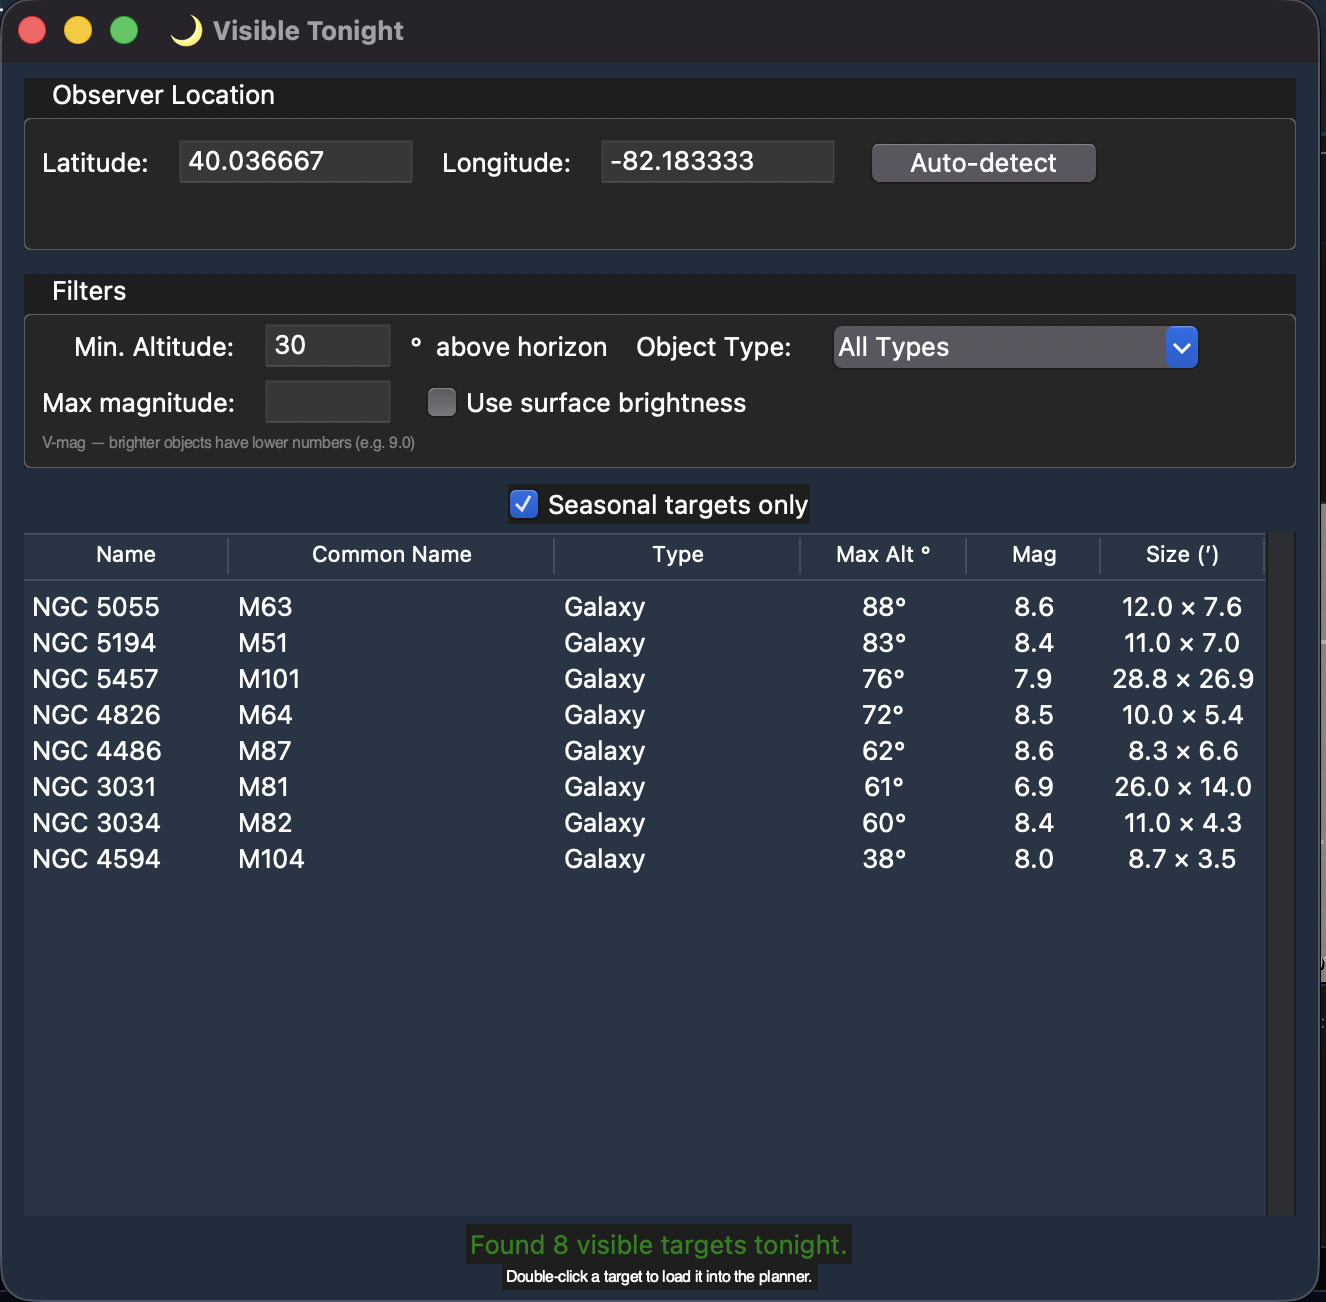
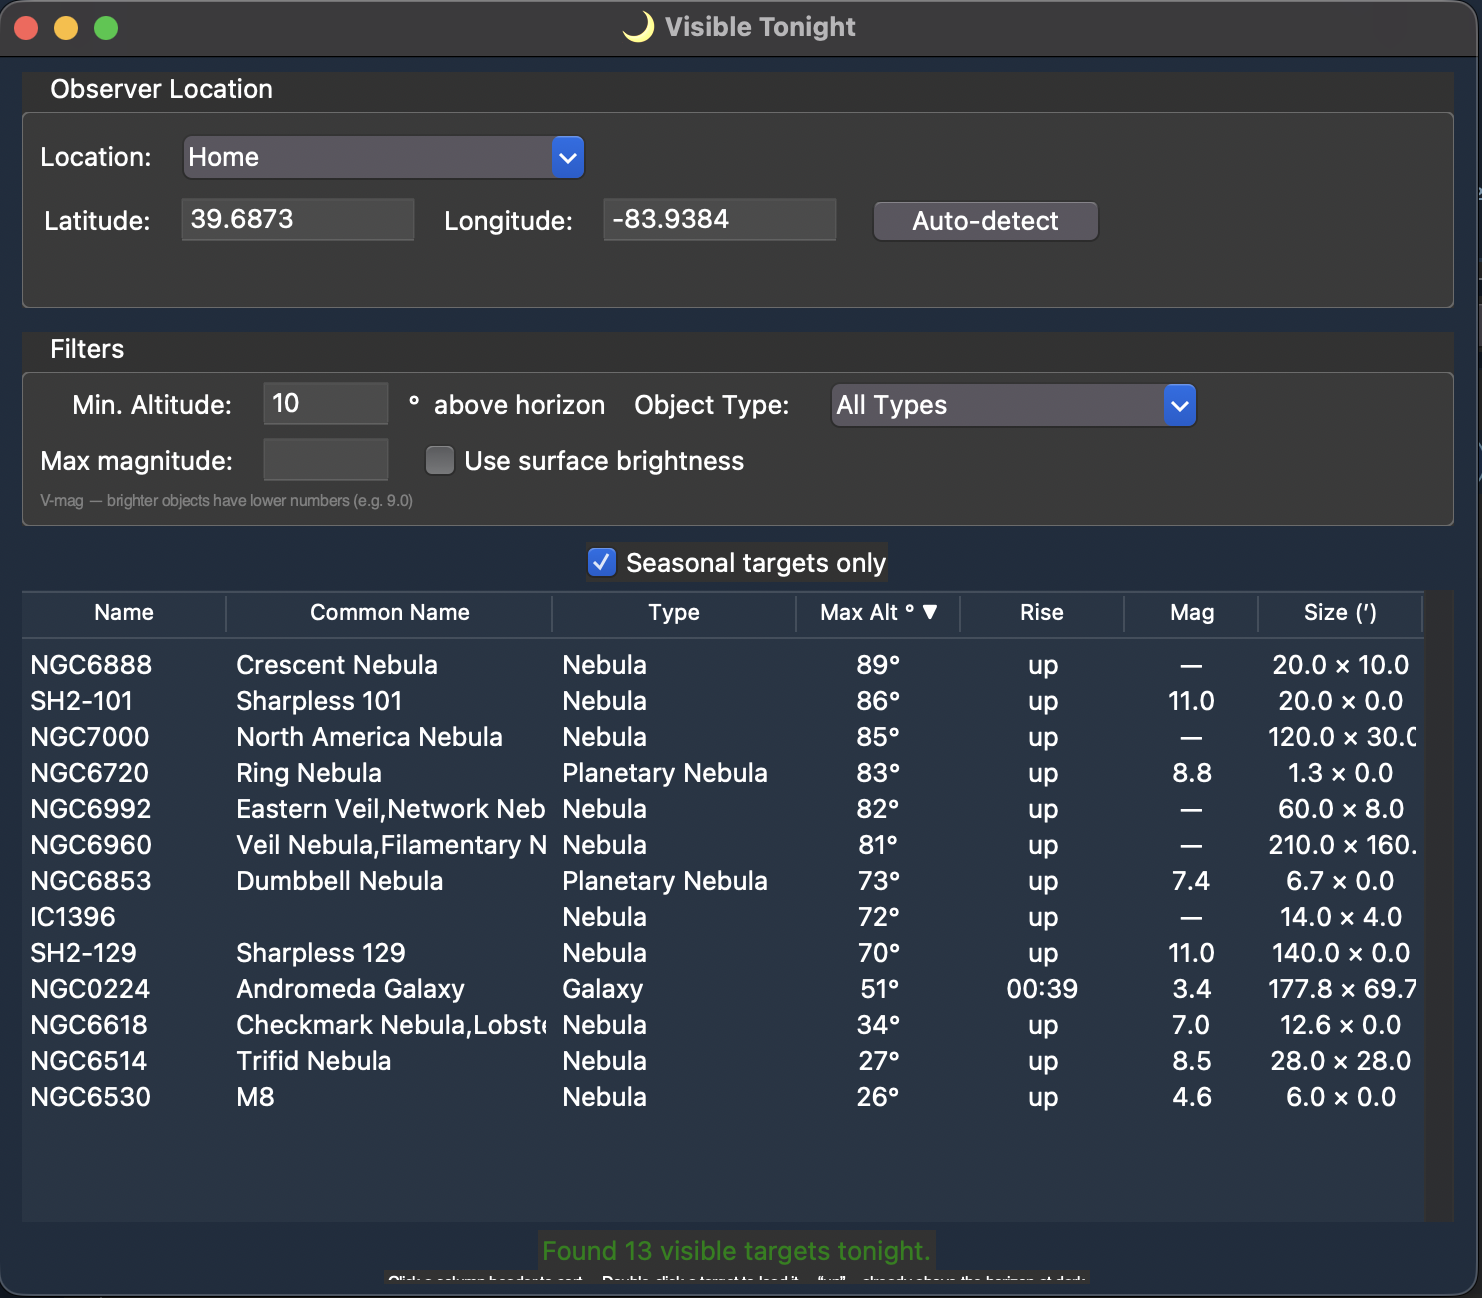
Update screenshots and readme

diff --git a/README.md b/README.md
@@ -27,10 +27,11 @@ Lightbucket is a free, local desktop app that closes the gap between **"what sho
 In one window it:
 
 - 🔭 **Searches NGC, IC, Messier, Caldwell, and Sharpless** from one box, with auto-complete on common names ("Orion Nebula" → M42 → NGC 1976) and a per-catalog filter to narrow suggestions to just the lists you care about
-- 🎯 **Frames the target on your sensor** with a draggable, rotatable FOV overlay on a live DSS image
+- 🎯 **Frames the target on your sensor** with a draggable, rotatable FOV overlay on a live DSS image — and your final framing carries through to the export, so if you nudge the frame off-centre or rotate it, NINA centres and rotates to match
 - 🗺 **Opens an interactive sky map** centred on your target — a wide-field view with constellations, the Milky Way, a coordinate grid, and your sensor frame drawn in, as the zoomed-out companion to the close-up DSS framing
 - ⏱ **Recommends a sub-exposure length** from your camera's read noise and your Bortle-class sky background — with read-noise vs sky-flux regime detection so you know *why*
 - 🌙 **Calculates tonight's imaging window** between astronomical twilight, moonrise/moonset, and per-target altitude
+- 📍 **Saves named location profiles** so dark-site travelers can switch between home and remote sites in a click — every twilight, moon, and altitude calculation follows the active site
 - 📊 **Builds a multi-target Gantt schedule** for the night, with per-rig support for dual-scope setups
 - 🚀 **Exports a `.ninaTargetSet` file** you double-click into NINA's Sequencer — multi-rig plans split automatically into one file per telescope
 - 🧩 **Imports your NINA profile** — pulls in filter-wheel names (LRGB + narrowband, with a bandwidth prompt) and your configured telescope, showing a preview of exactly what will be added or updated before anything is saved
@@ -84,7 +85,7 @@ If it's useful to you too, [grab the latest release](https://github.com/Lightbuc
 
 **Requirements:** macOS 11 (Big Sur) or later. Apple Silicon only (Apple Intel support coming in a future release).
 
-1. Download **`LightbucketAstroPlanner-1.1.0.dmg`** from the release page.
+1. Download **`LightbucketAstroPlanner-1.1.1.dmg`** from the release page.
 2. Open the DMG and drag **Lightbucket Astro Planner** into your
    **Applications** folder.
 3. The first time you launch it:
@@ -103,7 +104,7 @@ If it's useful to you too, [grab the latest release](https://github.com/Lightbuc
 
 **Requirements:** Windows 10 (1909 or later) or Windows 11, 64-bit.
 
-1. Download **`LightbucketAstroPlanner-1.1.0-setup.exe`** from the
+1. Download **`LightbucketAstroPlanner-1.1.1-setup.exe`** from the
    release page.
 2. Run the installer. If **Windows Defender SmartScreen** appears:
    - Click **More info**.
@@ -153,6 +154,14 @@ manually and click **Save**, or click **📍 Auto-detect** to try again.
 
 Accurate coordinates matter for twilight times, moon altitude, and the
 per-target imaging window, so it's worth getting right.
+
+If you observe from more than one place, save each as a **named location
+profile**: get the coordinates right, then use the **Location** dropdown's
+**☆ Save** to name the site (your first one is created automatically as
+*Home*). Switch sites anytime from that dropdown — or from the Visible
+Tonight dialog — and use **⚙ Manage** to rename, update, or delete them.
+Auto-detect fills the fields and leaves saving to you, so detecting a new
+spot never overwrites a saved site.
 
 ### 4. (Optional) Import your NINA profile — *Settings* tab
 
@@ -213,7 +222,9 @@ auto-completes against the NGC / IC catalog and the bundled common-name map
 The right side of the tab shows:
 
 - A **DSS thumbnail** of the target with a draggable, rotatable sensor frame
-  that previews exactly how the object will land on your sensor.
+  that previews exactly how the object will land on your sensor. Pan the frame
+  off the catalog centre or rotate it, and that exact centre and position
+  angle are what get written to the NINA export.
 - A **text analysis** panel with recommended sub-exposure, moon conditions,
   the night's imaging window for that target, and integration math.
 - An **altitude track** showing the target's altitude across the night with
@@ -244,6 +255,17 @@ it isn't available, the map falls back to opening in your default browser, so
 the button never dead-ends. macOS uses the built-in system web view — nothing
 extra to install.
 
+The **🌙 Visible Tonight** button scans the whole catalog for objects that
+clear your altitude floor during tonight's dark window, filtered by object
+type and magnitude (or surface brightness). Each result shows its peak
+altitude and a **Rise** column — the local time the object first climbs above
+your minimum altitude while the sky is dark, or *up* if it's already above the
+line at dusk. **Single-click any column header to sort** (click again to
+reverse); names sort naturally (M9 before M13) and rise times read dusk-to-dawn
+in order. A **Location** dropdown at the top switches saved sites and re-runs
+the scan, so you can compare what's up from home versus a darker site.
+Double-click a row to load that target into the Planner.
+
 ### ⭐ Targets
 
 A multi-target queue. Use this to build up a shortlist of candidates — for
@@ -260,7 +282,11 @@ schedule, and the exports:
   a notes app or print.
 - **Export to NINA** — writes a `.ninaTargetSet` file you can open directly
   in NINA's Sequencer. If your plan spans multiple telescopes, the app
-  detects this and writes one file per scope into a folder you choose.
+  detects this and writes one file per scope into a folder you choose. Each
+  target carries J2000 coordinates — the framed centre if you moved the FOV
+  box, otherwise the catalog position — the FOV rotation as NINA's position
+  angle, and your filter names (LRGB, narrowband, and mono luminance) so
+  sequences drop in already framed and matched to your filter wheel.
 
 Plans are saved as JSON session files in a `sessions` subfolder. When you
 close the app with entries still in the plan, you're prompted to save first.
@@ -272,9 +298,11 @@ Values entered here populate the equipment dropdowns throughout the app.
 
 ### ⚙ Settings
 
-Observer location, analysis preferences, and data management (NINA profile
-import, NGC / IC catalog re-download, DSS image cache clear). See the
-[First-Run Setup](#first-run-setup) section for details on each field.
+Observer location — including named **location profiles** for multiple
+observing sites, with ☆ to save the current coordinates and ⚙ to rename,
+update, or delete saved sites — analysis preferences, and data management
+(NINA profile import, NGC / IC catalog re-download, DSS image cache clear).
+See the [First-Run Setup](#first-run-setup) section for details on each field.
 
 ---
 
@@ -336,6 +364,21 @@ re-run **Import NINA Profile**.
 New in 1.1.0, the **Sky Map** needs nothing migrated — it's available as soon
 as you've installed the update and analyzed a target. On Windows, if the
 embedded window can't start, the map opens in your default browser instead.
+
+New in 1.1.1, nothing needs migrating either:
+
+- **Your location becomes a profile automatically.** On first launch the
+  update folds your existing coordinates into a named *Home* profile, so
+  nothing changes until you add more sites. Save extra dark-site profiles from
+  **Settings → Observer Location**.
+- **FOV framing now reaches NINA.** Panning or rotating the framing box on the
+  Planner is carried into the `.ninaTargetSet` as the target centre and
+  position angle (J2000) — no setup required.
+- **Mono filters export correctly.** Filter names for mono LRGB/narrowband
+  sequences now match NINA's target-set format, so they slot straight into the
+  filter wheel on import. Re-export any older plans to pick this up.
+- **Visible Tonight gained a Rise column and sortable headers.** No migration
+  needed — open the dialog and click a header to sort.
 
 ---
 
